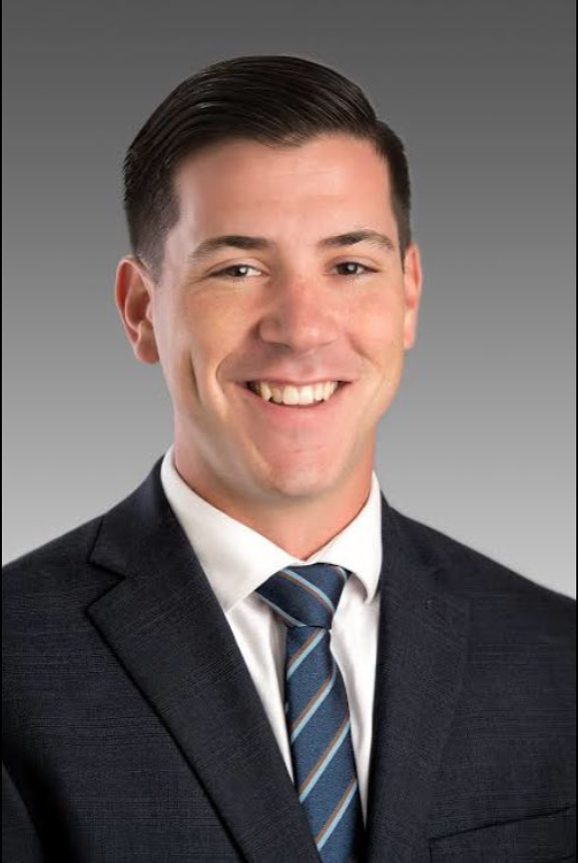
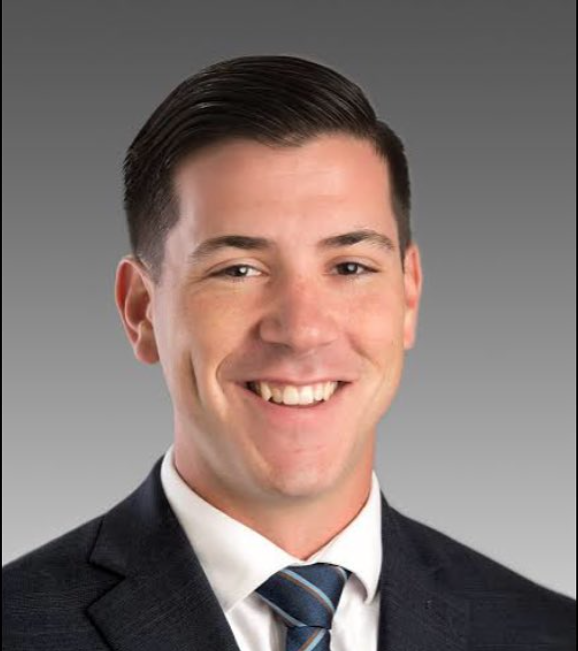
Updated description and testimonials
Updated the text and the testimonials with clients and professionals

diff --git a/public/index.html b/public/index.html
@@ -8,39 +8,25 @@
         <link rel="preconnect" href="https://fonts.googleapis.com" />
         <link rel="preconnect" href="https://fonts.gstatic.com" crossorigin />
         <link href="https://fonts.googleapis.com/css2?family=Inter:wght@600&display=swap" rel="stylesheet" />
-        <!--
-        manifest.json provides metadata used when your web app is installed on a
-        user's mobile device or desktop. See https://developers.google.com/web/fundamentals/web-app-manifest/
-        -->
-        <!--
-        Notice the use of %PUBLIC_URL% in the tags above.
-        It will be replaced with the URL of the `public` folder during the build.
-        Only files inside the `public` folder can be referenced from the HTML.
+        <!-- <link rel="icon" type="image/png" sizes="32x32" href="../src/imgs/others/icon.png" /> -->
+        <link rel="icon" href="../src/imgs/others/favicon.ico" />
 
-        Unlike "/favicon.ico" or "favicon.ico", "%PUBLIC_URL%/favicon.ico" will
-        work correctly both with client-side routing and a non-root public URL.
-        Learn how to configure a non-root public URL by running `npm run build`.
-        -->
+
         <title>Usman A. | Fullstack App</title>
-        <script src="https://assets.emergent.sh/scripts/emergent-main.js"></script>
-        <!--
-        These two scripts have been added for the Visual Edits, please do not edit or remove them
-        -->
+        <!-- <script src="https://assets.emergent.sh/scripts/emergent-main.js"></script> -->
         <script>
             // Only load visual edit scripts when inside an iframe
             if (window.self !== window.top) {
                 // Load debug monitor script
                 var debugMonitorScript = document.createElement('script');
-                debugMonitorScript.src = 'https://assets.emergent.sh/scripts/debug-monitor.js';
-                document.head.appendChild(debugMonitorScript);
+                // debugMonitorScript.src = 'https://assets.emergent.sh/scripts/debug-monitor.js';
+                // document.head.appendChild(debugMonitorScript);
 
-                // Configure Tailwind
                 window.tailwind = window.tailwind || {};
                 tailwind.config = {
                     corePlugins: { preflight: false },
                 };
 
-                // Load Tailwind CDN
                 var tailwindScript = document.createElement('script');
                 tailwindScript.src = 'https://cdn.tailwindcss.com';
                 document.head.appendChild(tailwindScript);
@@ -50,131 +36,5 @@
     <body>
         <noscript>You need to enable JavaScript to run this app.</noscript>
         <div id="root"></div>
-        <!--
-      This HTML file is a template.
-      If you open it directly in the browser, you will see an empty page.
-
-      You can add webfonts, meta tags, or analytics to this file.
-      The build step will place the bundled scripts into the <body> tag.
-
-      To begin the development, run `npm start` or `yarn start`.
-      To create a production bundle, use `npm run build` or `yarn build`.
-    -->
-        <a
-            id="emergent-badge"
-            target="_blank"
-            href="https://app.emergent.sh/?utm_source=emergent-badge"
-            style="
-                display: inline-flex !important;
-                box-sizing: border-box;
-                width: 178px;
-                height: 40px;
-                padding: 8px 12px 8px 12px;
-                align-items: center !important;
-                gap: 8px;
-                border-radius: 50px !important;
-                background: #000 !important;
-                position: fixed !important;
-                bottom: 20px;
-                right: 20px;
-                text-decoration: none;
-                font-family: -apple-system, BlinkMacSystemFont,
-                    &quot;Segoe UI&quot;, Roboto, Oxygen, Ubuntu, Cantarell,
-                    &quot;Open Sans&quot;, &quot;Helvetica Neue&quot;,
-                    sans-serif !important;
-                font-size: 12px !important;
-                z-index: 9999 !important;
-            "
-        >
-            <svg xmlns="http://www.w3.org/2000/svg" width="16" height="16" viewBox="0 0 16 16" fill="none">
-                <path d="M15.5702 8.13142C15.7729 8.0412 16.0007 8.18878 15.9892 8.4103C15.8374 11.3192 14.0965 14.0405 11.2531 15.3065C8.40964 16.5725 5.2224 16.0453 2.95912 14.2117C2.78676 14.072 2.82955 13.804 3.03219 13.7137L4.95677 12.8568C5.04866 12.8159 5.15446 12.823 5.24204 12.8725C6.73377 13.7153 8.59176 13.8649 10.2772 13.1145C11.9626 12.3641 13.0947 10.8833 13.4665 9.21075C13.4883 9.11256 13.5539 9.02918 13.6457 8.98827L15.5702 8.13142Z" fill="white"/>
-                <path fill-rule="evenodd" clip-rule="evenodd" d="M15.3066 4.74698L15.5067 5.19653C15.5759 5.35178 15.5061 5.53366 15.3508 5.60278L1.29992 11.8586C1.14467 11.9278 0.962794 11.8579 0.893675 11.7027L0.701732 11.2716L0.693457 11.2531C-1.10317 7.21778 0.711626 2.49007 4.74692 0.693443C8.78221 -1.10318 13.51 0.711693 15.3066 4.74698ZM2.82356 8.55367C2.63552 8.63739 2.41991 8.51617 2.40853 8.31065C2.28373 6.05724 3.53858 3.85787 5.72286 2.88536C7.90715 1.91286 10.3813 2.45199 11.9724 4.05256C12.1175 4.19854 12.0633 4.43988 11.8753 4.5236L2.82356 8.55367Z" fill="white"/>
-            </svg>
-            <p
-                style="
-                    color: #FFF !important;
-                    font-family: 'Inter', sans-serif !important;
-                    font-size: 13px !important;
-                    font-style: normal !important;
-                    font-weight: 600 !important;
-                    line-height: 20px !important;
-                    margin: 0 !important;
-                    white-space: nowrap !important;
-                "
-            >
-                Made with Emergent
-            </p>
-        </a>
-        <script>
-            !(function (t, e) {
-                var o, n, p, r;
-                e.__SV ||
-                    ((window.posthog = e),
-                    (e._i = []),
-                    (e.init = function (i, s, a) {
-                        function g(t, e) {
-                            var o = e.split(".");
-                            2 == o.length && ((t = t[o[0]]), (e = o[1])),
-                                (t[e] = function () {
-                                    t.push(
-                                        [e].concat(
-                                            Array.prototype.slice.call(
-                                                arguments,
-                                                0,
-                                            ),
-                                        ),
-                                    );
-                                });
-                        }
-                        ((p = t.createElement("script")).type =
-                            "text/javascript"),
-                            (p.crossOrigin = "anonymous"),
-                            (p.async = !0),
-                            (p.src =
-                                s.api_host.replace(
-                                    ".i.posthog.com",
-                                    "-assets.i.posthog.com",
-                                ) + "/static/array.js"),
-                            (r =
-                                t.getElementsByTagName(
-                                    "script",
-                                )[0]).parentNode.insertBefore(p, r);
-                        var u = e;
-                        for (
-                            void 0 !== a ? (u = e[a] = []) : (a = "posthog"),
-                                u.people = u.people || [],
-                                u.toString = function (t) {
-                                    var e = "posthog";
-                                    return (
-                                        "posthog" !== a && (e += "." + a),
-                                        t || (e += " (stub)"),
-                                        e
-                                    );
-                                },
-                                u.people.toString = function () {
-                                    return u.toString(1) + ".people (stub)";
-                                },
-                                o =
-                                    "init me ws ys ps bs capture je Di ks register register_once register_for_session unregister unregister_for_session Ps getFeatureFlag getFeatureFlagPayload isFeatureEnabled reloadFeatureFlags updateEarlyAccessFeatureEnrollment getEarlyAccessFeatures on onFeatureFlags onSurveysLoaded onSessionId getSurveys getActiveMatchingSurveys renderSurvey canRenderSurvey canRenderSurveyAsync identify setPersonProperties group resetGroups setPersonPropertiesForFlags resetPersonPropertiesForFlags setGroupPropertiesForFlags resetGroupPropertiesForFlags reset get_distinct_id getGroups get_session_id get_session_replay_url alias set_config startSessionRecording stopSessionRecording sessionRecordingStarted captureException loadToolbar get_property getSessionProperty Es $s createPersonProfile Is opt_in_capturing opt_out_capturing has_opted_in_capturing has_opted_out_capturing clear_opt_in_out_capturing Ss debug xs getPageViewId captureTraceFeedback captureTraceMetric".split(
-                                        " ",
-                                    ),
-                                n = 0;
-                            n < o.length;
-                            n++
-                        )
-                            g(u, o[n]);
-                        e._i.push([i, s, a]);
-                    }),
-                    (e.__SV = 1));
-            })(document, window.posthog || []);
-            posthog.init("phc_xAvL2Iq4tFmANRE7kzbKwaSqp1HJjN7x48s3vr0CMjs", {
-                api_host: "https://us.i.posthog.com",
-                person_profiles: "identified_only", // or 'always' to create profiles for anonymous users as well,
-                session_recording: {
-                    recordCrossOriginIframes: true,
-                    capturePerformance: false,
-                },
-            });
-        </script>
     </body>
 </html>

diff --git a/src/data/mock.js b/src/data/mock.js
@@ -2,9 +2,11 @@
 import faisalHameed_Testimonials from "../imgs/professional/FaisalHameed_Testimonials.jpg";
 import talha_testimonials from "../imgs/professional/talha_testimonials.png";
 import Vlad__Testimonials from "../imgs/professional/Vlad__Testimonials.jpg";
-import Arthur_testimonials from "../imgs/clients/Arthur_testimonials.png";
+import Arthur_testimonials from "../imgs/clients/Arthur_testimonials.jpg";
 import Monika_testimonial from "../imgs/clients/Monika_testimonial.png";
 import tyler_testimonials from "../imgs/clients/tyler_testimonials.png";
+import usmanamjad from "../imgs/others/usmanamjadmain.jpeg";
+
 
 
 
@@ -17,13 +19,14 @@ export const personalInfo = {
   location: "Lahore, Pakistan",
   linkedin: "https://linkedin.com/in/musmanamjad1",
   github: "https://github.com/devusmanamjad",
-  upwork: "https://www.upwork.com/freelancers/raheem",
-  twitter: "https://twitter.com/usmanamjad_dev",
-  photo: "https://customer-assets.emergentagent.com/job_e9cf7992-ed2e-48c4-bd9f-f04fd6499616/artifacts/7zea1djo_1732606616323.jpeg",
-  about: `Results-driven Software Engineer with around 5 years of experience specializing in .NET Core, React.js, and Azure Cloud. I've built scalable applications for fintech, SaaS, and enterprise solutions that serve thousands of users daily.
+  upwork: "https://www.upwork.com/freelancers/~0191bd47d8180a628a",
+  twitter: "",
+  whatsapp: "https://wa.me/923428724610?text=Hi,%20I’m%20Usman,%20a%20passionate%20Full%20Stack%20Developer.%20For%20quick%20discussions%20and%20inquiries,%20you%20can%20connect%20with%20me%20on%20WhatsApp%20directly:",
+  photo: usmanamjad,
+  about: `Results-driven Software Engineer with over around 5 years of experience specializing in .NET Core, React.js, and Azure Cloud. I've built scalable applications for fintech, SaaS, and enterprise solutions that serve thousands of users daily.
 
 My expertise spans from developing efficient UIs and integrating complex APIs to delivering high-performance cloud solutions. I'm passionate about improving system architecture and maintaining software quality standards that meet diverse client needs across global teams.`,
-  resumeUrl: "#"
+  resumeUrl: "https://drive.google.com/file/d/1SQysf0RrEqzeeYOcizUcMzBsWnSml6H7/view?usp=sharing"
 };
 
 // Professional Testimonials (from colleagues, managers, team leads)
@@ -325,42 +328,42 @@ export const projects = [
       "Decreased payment reconciliation time by 75%"
     ]
   },
-  {
-    id: 5,
-    name: "Global Study-Abroad Platform",
-    category: "SaaS",
-    description: "SaaS platform connecting universities and students across 50+ countries.",
-    role: "Full-Stack Developer",
-    tech: [".NET Core", "React.js", "Azure SQL", "REST APIs"],
-    features: ["Application management", "University partnerships", "Real-time sync"],
-    industry: "Education",
-    team: "Global",
-    metrics: "40% reduction in processing time",
-    // Extended Details
-    fullDescription: "A comprehensive SaaS platform that streamlines the study-abroad application process, connecting students with partner universities across 50+ countries. Manages applications, documents, payments, and communications in one unified system.",
-    duration: "10 months",
-    teamSize: "8 engineers",
-    responsibilities: [
-      "Built full-stack features using .NET Core backend and React.js frontend",
-      "Designed application workflow engine supporting complex approval chains",
-      "Implemented real-time notifications and messaging system",
-      "Developed document management system with OCR capabilities",
-      "Created analytics dashboards for university partners",
-      "Built REST APIs for third-party integrations"
-    ],
-    challenges: [
-      "Supporting diverse application requirements across 50+ countries",
-      "Managing complex document verification workflows",
-      "Ensuring data privacy compliance (GDPR, local regulations)",
-      "Scaling to handle seasonal application surges"
-    ],
-    outcomes: [
-      "40% reduction in application processing time",
-      "Onboarded 200+ university partners globally",
-      "Processed 50,000+ applications in first year",
-      "Achieved 98% user satisfaction rating"
-    ]
-  },
+  // {
+  //   id: 5,
+  //   name: "Global Study-Abroad Platform",
+  //   category: "SaaS",
+  //   description: "SaaS platform connecting universities and students across 50+ countries.",
+  //   role: "Full-Stack Developer",
+  //   tech: [".NET Core", "React.js", "Azure SQL", "REST APIs"],
+  //   features: ["Application management", "University partnerships", "Real-time sync"],
+  //   industry: "Education",
+  //   team: "Global",
+  //   metrics: "40% reduction in processing time",
+  //   // Extended Details
+  //   fullDescription: "A comprehensive SaaS platform that streamlines the study-abroad application process, connecting students with partner universities across 50+ countries. Manages applications, documents, payments, and communications in one unified system.",
+  //   duration: "10 months",
+  //   teamSize: "8 engineers",
+  //   responsibilities: [
+  //     "Built full-stack features using .NET Core backend and React.js frontend",
+  //     "Designed application workflow engine supporting complex approval chains",
+  //     "Implemented real-time notifications and messaging system",
+  //     "Developed document management system with OCR capabilities",
+  //     "Created analytics dashboards for university partners",
+  //     "Built REST APIs for third-party integrations"
+  //   ],
+  //   challenges: [
+  //     "Supporting diverse application requirements across 50+ countries",
+  //     "Managing complex document verification workflows",
+  //     "Ensuring data privacy compliance (GDPR, local regulations)",
+  //     "Scaling to handle seasonal application surges"
+  //   ],
+  //   outcomes: [
+  //     "40% reduction in application processing time",
+  //     "Onboarded 200+ university partners globally",
+  //     "Processed 50,000+ applications in first year",
+  //     "Achieved 98% user satisfaction rating"
+  //   ]
+  // },
   {
     id: 6,
     name: "Fresh Pet-Food Subscription",
@@ -399,7 +402,7 @@ export const projects = [
   },
   {
     id: 7,
-    name: "Self-Storage Operations Platform",
+    name: "XPS Solution - Self-Storage Operations Platform",
     category: "Enterprise",
     description: "Platform for 24/7 call-centre support and remote facility management.",
     role: "Full-Stack Developer",

diff --git a/src/components/Hero.jsx b/src/components/Hero.jsx
@@ -2,12 +2,19 @@ import React, { useState, useEffect } from 'react';
 import { motion } from 'framer-motion';
 import { useTheme } from '../context/ThemeContext';
 import { personalInfo } from '../data/mock';
-import { ArrowDown, Github, Linkedin, Mail, Code2, Database, Cloud, Terminal, Twitter } from 'lucide-react';
+import { ArrowDown, Github, Linkedin, Mail, Code2, Database, Cloud, Terminal, Twitter, Phone } from 'lucide-react';
 
 // Upwork icon component
 const UpworkIcon = ({ size = 20 }) => (
   <svg width={size} height={size} viewBox="0 0 24 24" fill="currentColor">
     <path d="M18.561 13.158c-1.102 0-2.135-.467-3.074-1.227l.228-1.076.008-.042c.207-1.143.849-3.06 2.839-3.06 1.492 0 2.703 1.212 2.703 2.703-.001 1.489-1.212 2.702-2.704 2.702zm0-8.14c-2.539 0-4.51 1.649-5.31 4.366-1.22-1.834-2.148-4.036-2.687-5.892H7.828v7.112c-.002 1.406-1.141 2.546-2.547 2.546-1.405 0-2.543-1.14-2.545-2.546V3.492H0v7.112c0 2.914 2.37 5.303 5.281 5.303 2.913 0 5.283-2.389 5.283-5.303v-1.19c.529 1.107 1.182 2.229 1.974 3.221l-1.673 7.873h2.797l1.213-5.71c1.063.679 2.285 1.109 3.686 1.109 3 0 5.439-2.452 5.439-5.45 0-3-2.439-5.439-5.439-5.439z"/>
+  </svg>
+);
+
+// WhatsApp icon component
+const WhatsAppIcon = ({ size = 20 }) => (
+  <svg width={size} height={size} viewBox="0 0 24 24" fill="currentColor">
+    <path d="M20.52 3.48A11.82 11.82 0 0 0 12.02 0C5.4 0 .02 5.38.02 12c0 2.11.55 4.17 1.6 5.99L0 24l6.17-1.58A11.96 11.96 0 0 0 12.02 24C18.63 24 24 18.62 24 12c0-3.2-1.25-6.2-3.48-8.52zM12.02 22a9.97 9.97 0 0 1-5.08-1.39l-.36-.22-3.66.94.98-3.57-.24-.37A9.92 9.92 0 0 1 2.02 12c0-5.52 4.49-10 10-10 2.67 0 5.18 1.04 7.06 2.93A9.93 9.93 0 0 1 22.02 12c0 5.51-4.49 10-10 10zm5.76-7.45c-.31-.16-1.84-.91-2.12-1.01-.28-.1-.49-.16-.69.16-.2.31-.79 1.01-.97 1.22-.18.2-.36.23-.67.08-.31-.16-1.29-.48-2.46-1.52-.91-.81-1.53-1.82-1.71-2.13-.18-.31-.02-.48.13-.64.14-.14.31-.36.46-.54.16-.18.2-.31.31-.51.1-.2.05-.39-.03-.54-.08-.16-.69-1.66-.95-2.28-.25-.6-.5-.52-.69-.53l-.59-.01c-.2 0-.53.08-.81.39-.28.31-1.06 1.04-1.06 2.53s1.09 2.94 1.24 3.14c.16.2 2.14 3.27 5.19 4.59.73.31 1.3.5 1.74.64.73.23 1.39.2 1.92.12.58-.09 1.84-.75 2.1-1.47.26-.72.26-1.33.18-1.47-.08-.13-.28-.2-.59-.36z" />
   </svg>
 );
 
@@ -48,9 +55,9 @@ const CodeBlock = ({ reducedMotion }) => {
   const codeLines = [
     { text: 'const developer = {', indent: 0, color: 'text-cyan-400' },
     { text: 'name: "Usman Amjad",', indent: 2, color: 'text-emerald-400' },
-    { text: 'role: "Senior Engineer",', indent: 2, color: 'text-emerald-400' },
-    { text: 'skills: ["C#", ".NET", "React"],', indent: 2, color: 'text-amber-400' },
-    { text: 'passion: "Building Solutions"', indent: 2, color: 'text-purple-400' },
+    { text: 'role: "Senior Software Engineer",', indent: 2, color: 'text-emerald-400' },
+    { text: 'skills: ["C#", ".NET", "Azure", "React"],', indent: 2, color: 'text-amber-400' },
+    { text: 'passion: "Crafting Scalable Solutions"', indent: 2, color: 'text-purple-400' },
     { text: '};', indent: 0, color: 'text-cyan-400' },
   ];
 
@@ -229,7 +236,7 @@ const Hero = () => {
           <div className="grid lg:grid-cols-2 gap-12 lg:gap-16 items-center">
             {/* Left - Text content */}
             <div>
-              <motion.div
+              {/* <motion.div
                 initial={{ opacity: 0, y: 30 }}
                 animate={{ opacity: 1, y: 0 }}
                 transition={{ duration: reducedMotion ? 0 : 0.6 }}
@@ -237,7 +244,7 @@ const Hero = () => {
                 <span className="inline-block px-4 py-2 rounded-full bg-cyan-500/10 text-cyan-600 dark:text-cyan-400 text-sm font-medium mb-6 border border-cyan-500/20">
                   ✨ Available for opportunities
                 </span>
-              </motion.div>
+              </motion.div> */}
 
               <motion.h1
                 initial={{ opacity: 0, y: 30 }}
@@ -329,13 +336,13 @@ const Hero = () => {
                   <UpworkIcon size={20} />
                 </a>
                 <a
-                  href={personalInfo.twitter}
+                  href={personalInfo.whatsapp}
                   target="_blank"
                   rel="noopener noreferrer"
                   className="p-3 rounded-xl bg-slate-100 dark:bg-slate-800 text-slate-600 dark:text-slate-400 hover:text-sky-500 dark:hover:text-sky-400 hover:bg-slate-200 dark:hover:bg-slate-700 transition-all hover:scale-110"
-                  title="Twitter"
+                  title="Whatsapp"
                 >
-                  <Twitter size={20} />
+                  <WhatsAppIcon size={20} />
                 </a>
                 <a
                   href={`mailto:${personalInfo.email}`}

diff --git a/src/components/About.jsx b/src/components/About.jsx
@@ -121,6 +121,8 @@ const About = () => {
               </motion.a>
               <motion.a
                 href={personalInfo.resumeUrl}
+                target='_blank'
+                rel="noopener noreferrer"
                 className="px-6 py-3 border-2 border-slate-300 dark:border-slate-600 text-slate-700 dark:text-slate-300 hover:border-cyan-500 hover:text-cyan-500 font-medium rounded-xl transition-colors"
                 whileHover={{ scale: reducedMotion ? 1 : 1.05 }}
                 whileTap={{ scale: reducedMotion ? 1 : 0.95 }}

diff --git a/src/components/Contact.jsx b/src/components/Contact.jsx
@@ -45,7 +45,7 @@ const Contact = () => {
       icon: Phone,
       label: 'WhatsApp',
       value: personalInfo.phone,
-      href: `https://wa.me/${personalInfo.phone.replace(/[^0-9]/g, '')}`
+      href: "https://wa.me/923428724610?text=Hi,%20I’m%20Usman,%20a%20passionate%20Full%20Stack%20Developer.%20For%20quick%20discussions%20and%20inquiries,%20you%20can%20connect%20with%20me%20on%20WhatsApp%20directly:"
     },
     {
       icon: MapPin,

diff --git a/src/components/Header.jsx b/src/components/Header.jsx
@@ -53,7 +53,7 @@ const Header = () => {
             whileHover={{ scale: reducedMotion ? 1 : 1.05 }}
           >
             <span className="text-cyan-500">&lt;</span>
-            <span>Usman</span>
+            <span>usmanamjad.dev</span>
             <span className="text-cyan-500">/&gt;</span>
           </motion.a>
 
